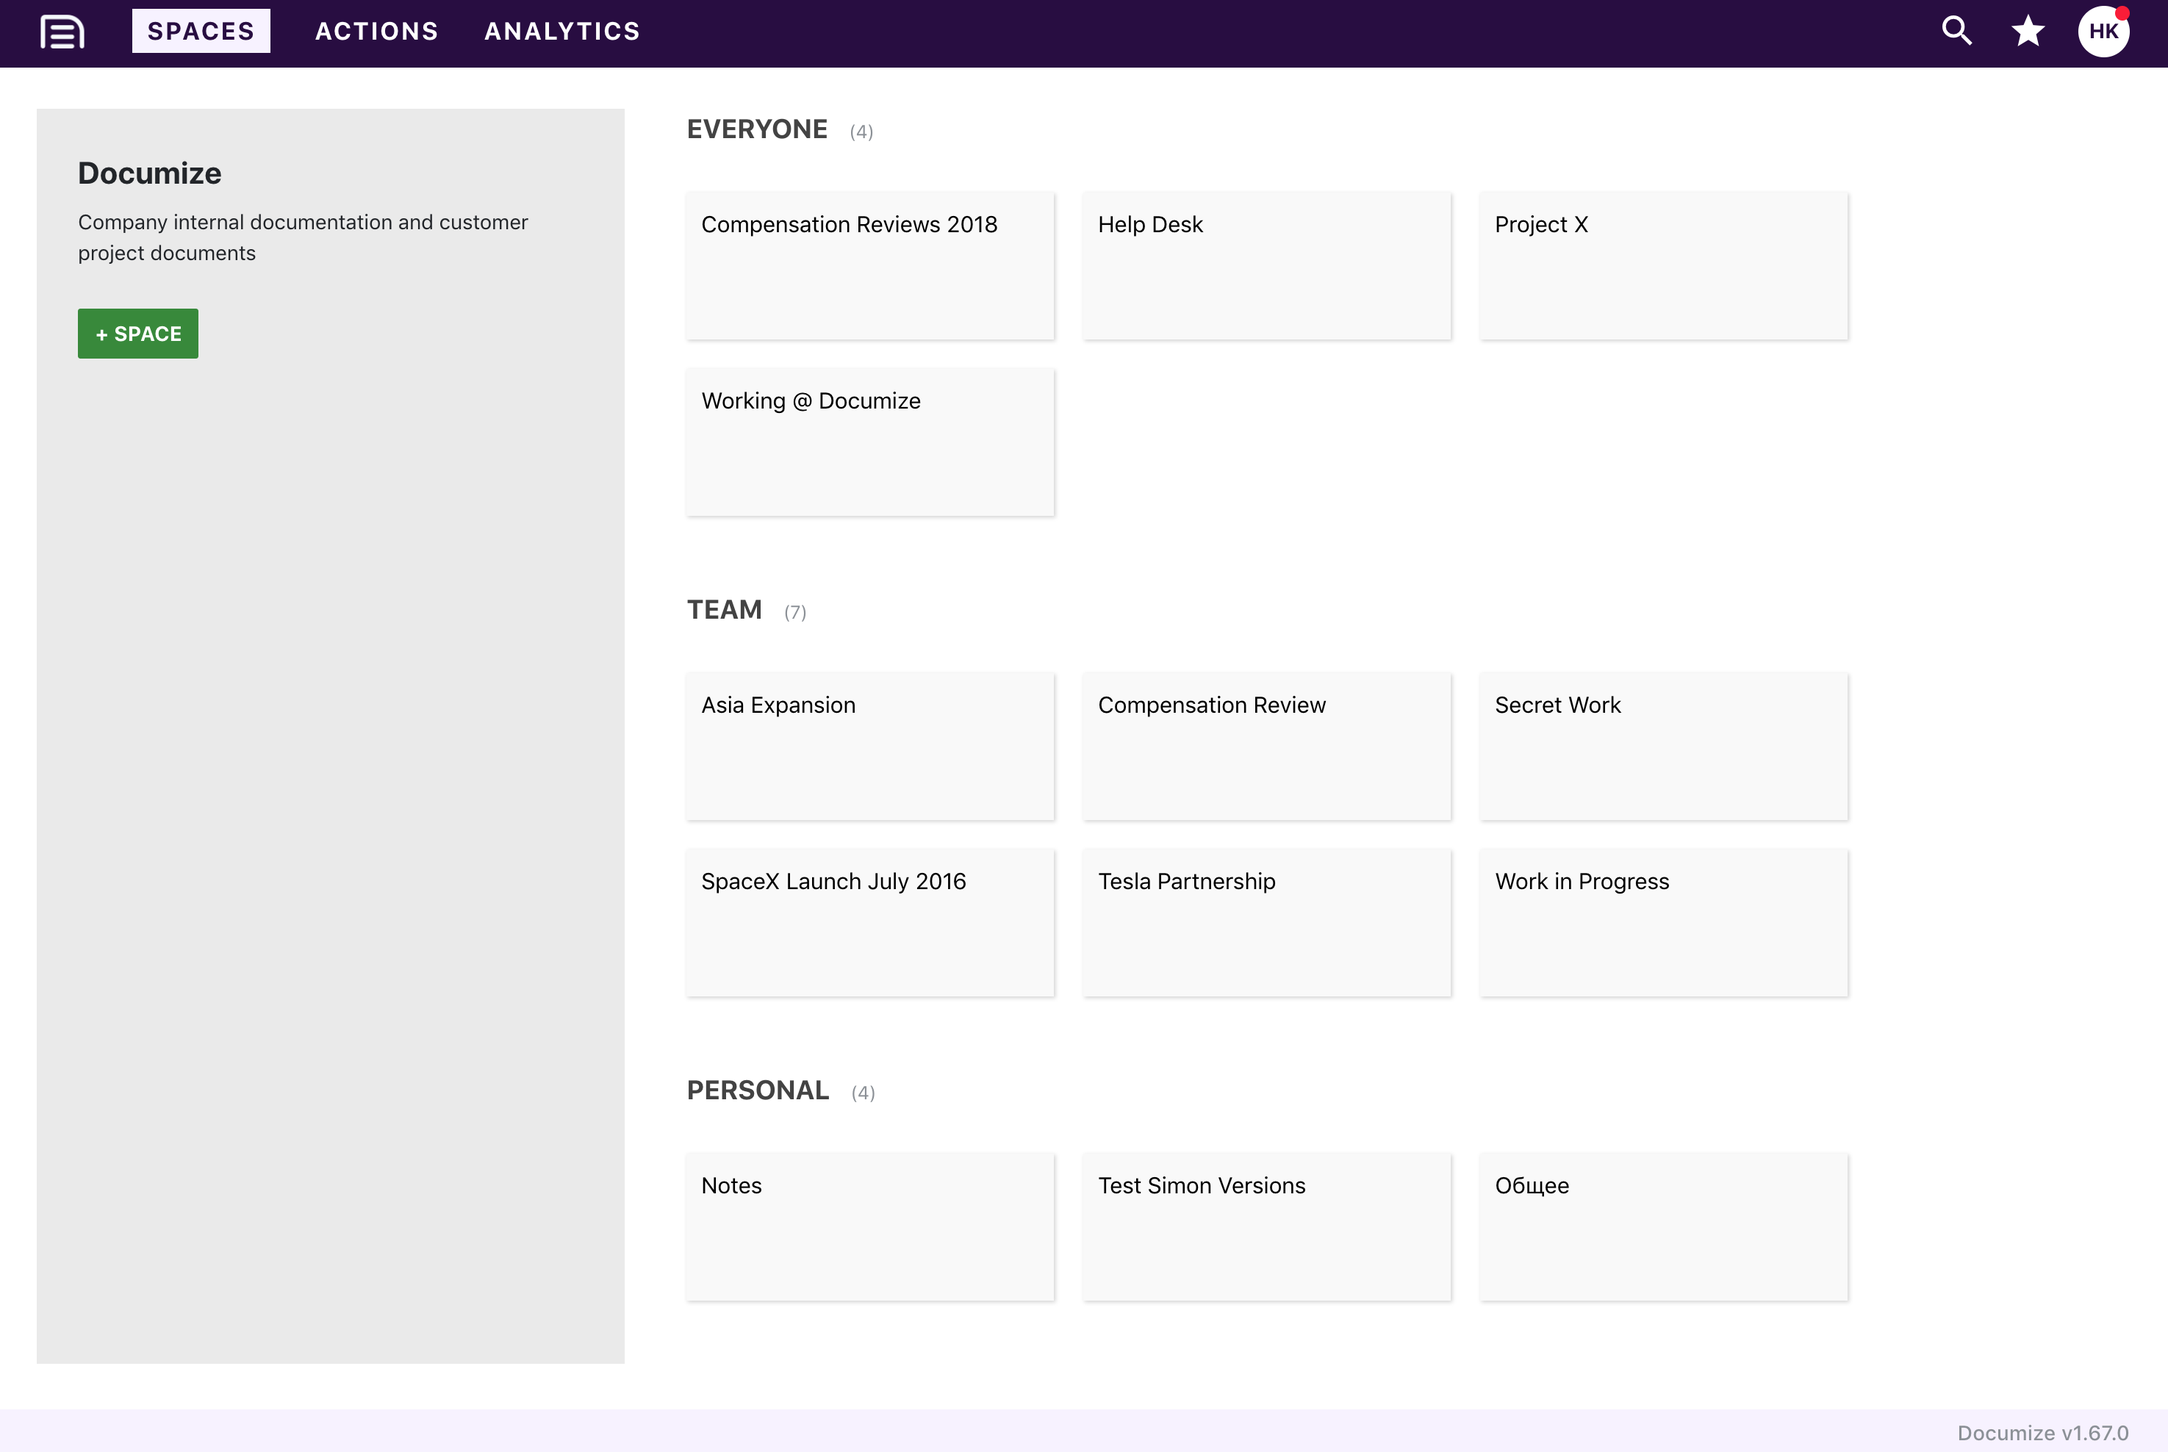
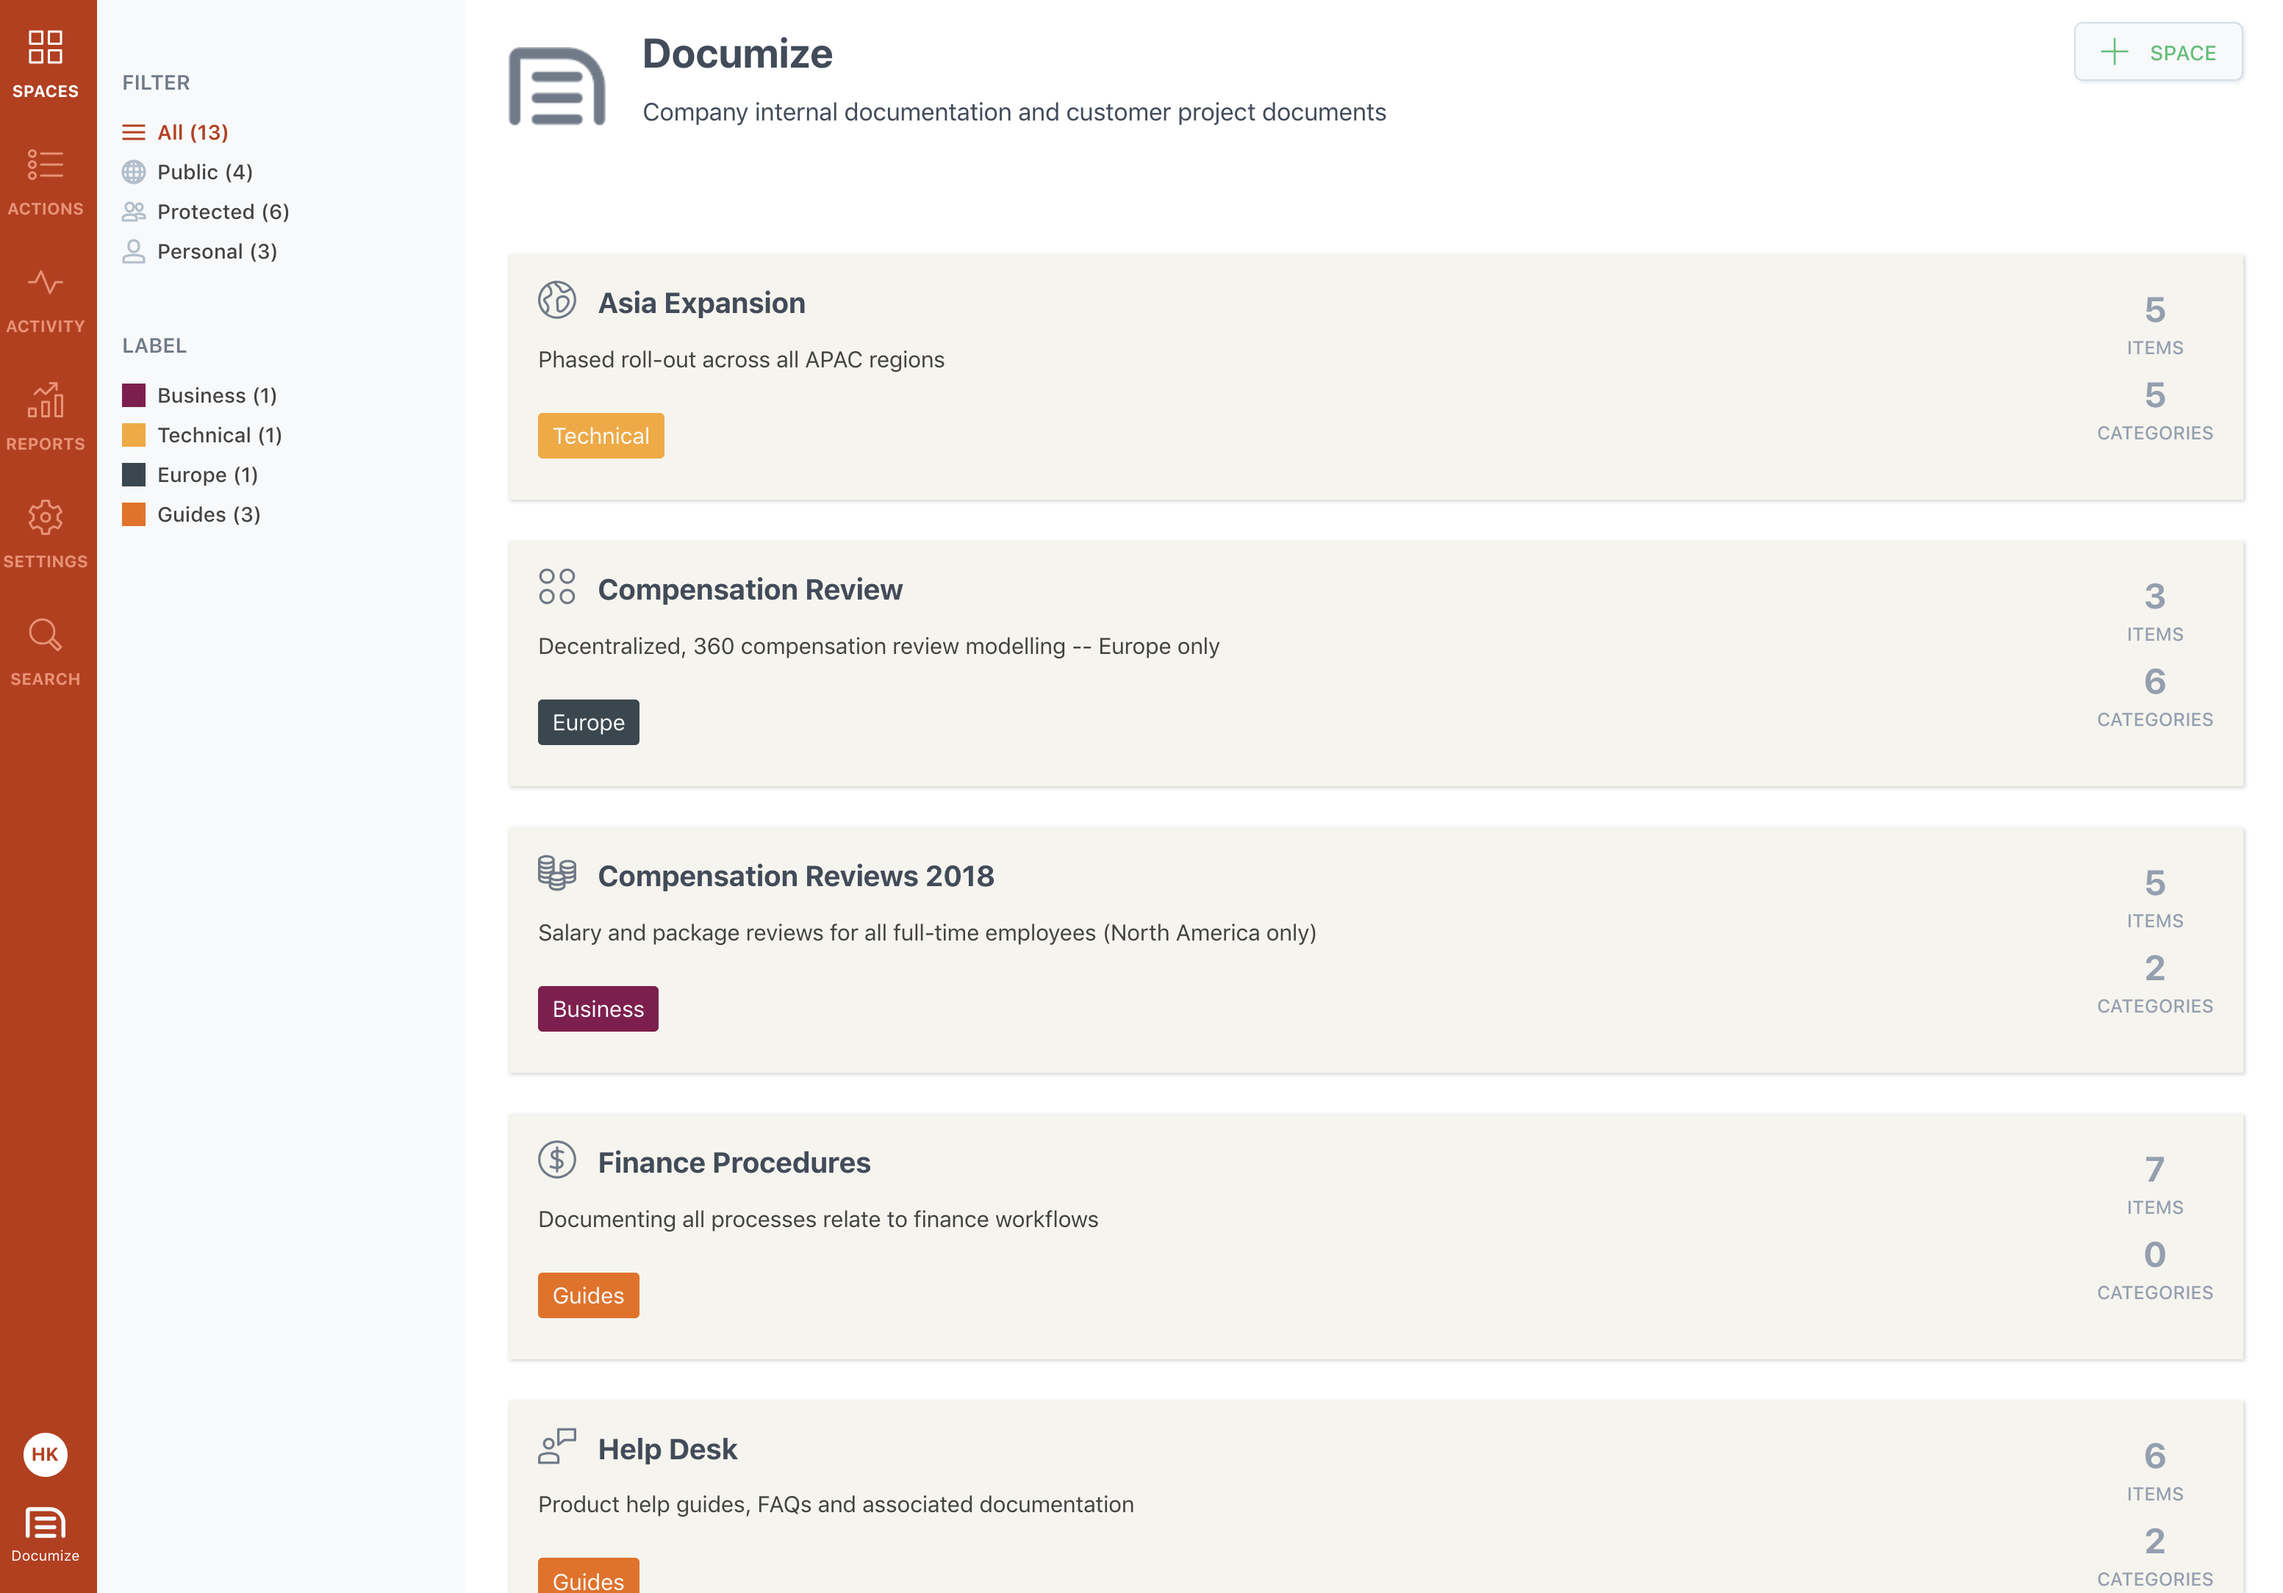
Update readme with new v2 screenshot

diff --git a/README.md b/README.md
@@ -48,13 +48,7 @@ Integrations for embedding SaaS data within documents, zero add-on/marketplace f
 
 ## What does it look like?
 
-All spaces.
-
 ![Documize](screenshot-1.png "Documize")
-
-Space view.
-
-![Documize](screenshot-2.png "Documize")
 
 ## Latest Release
 
